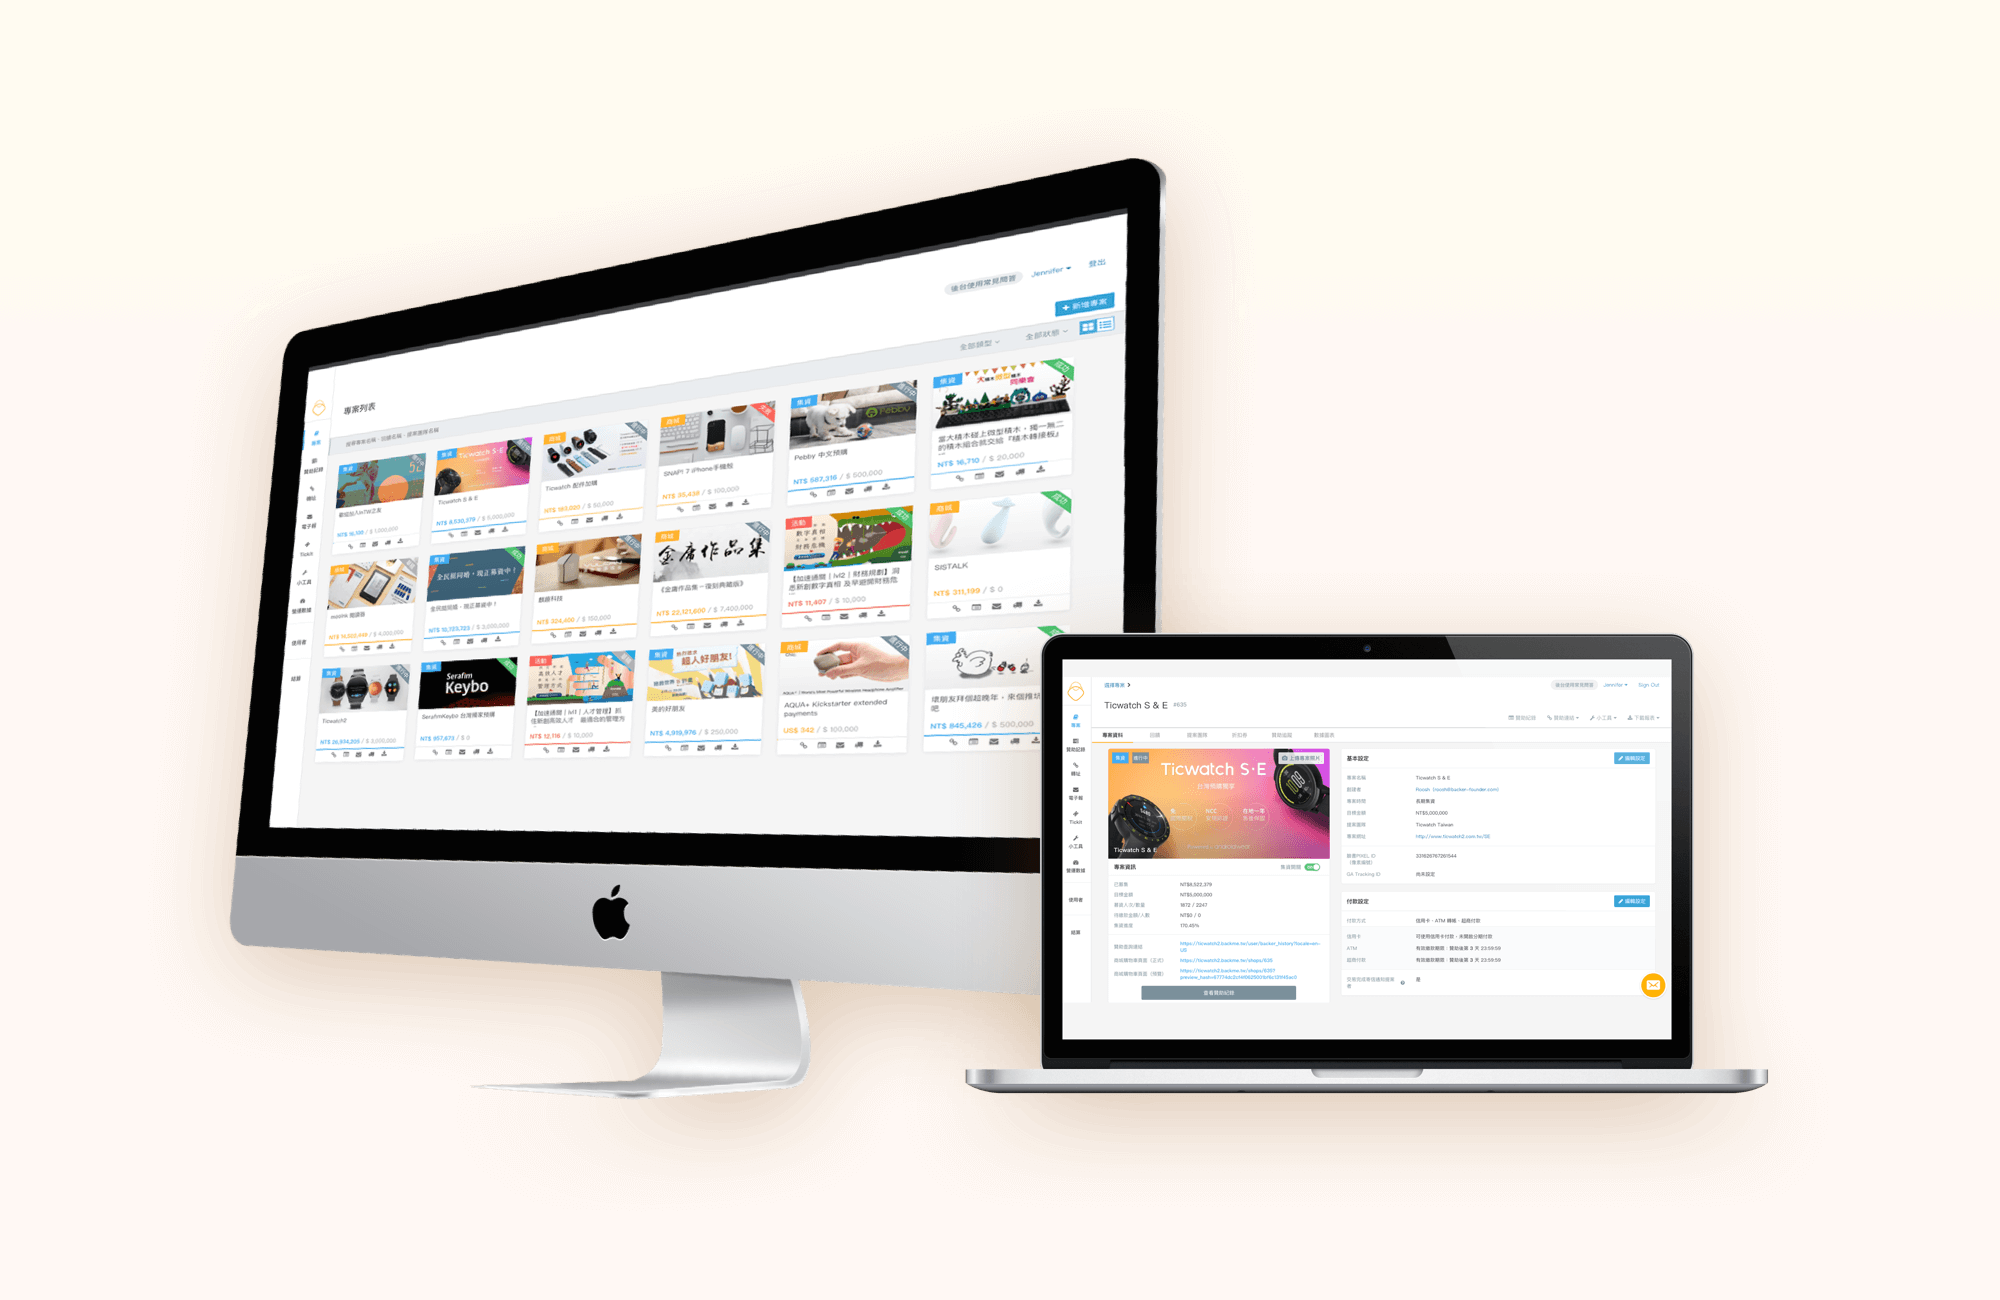
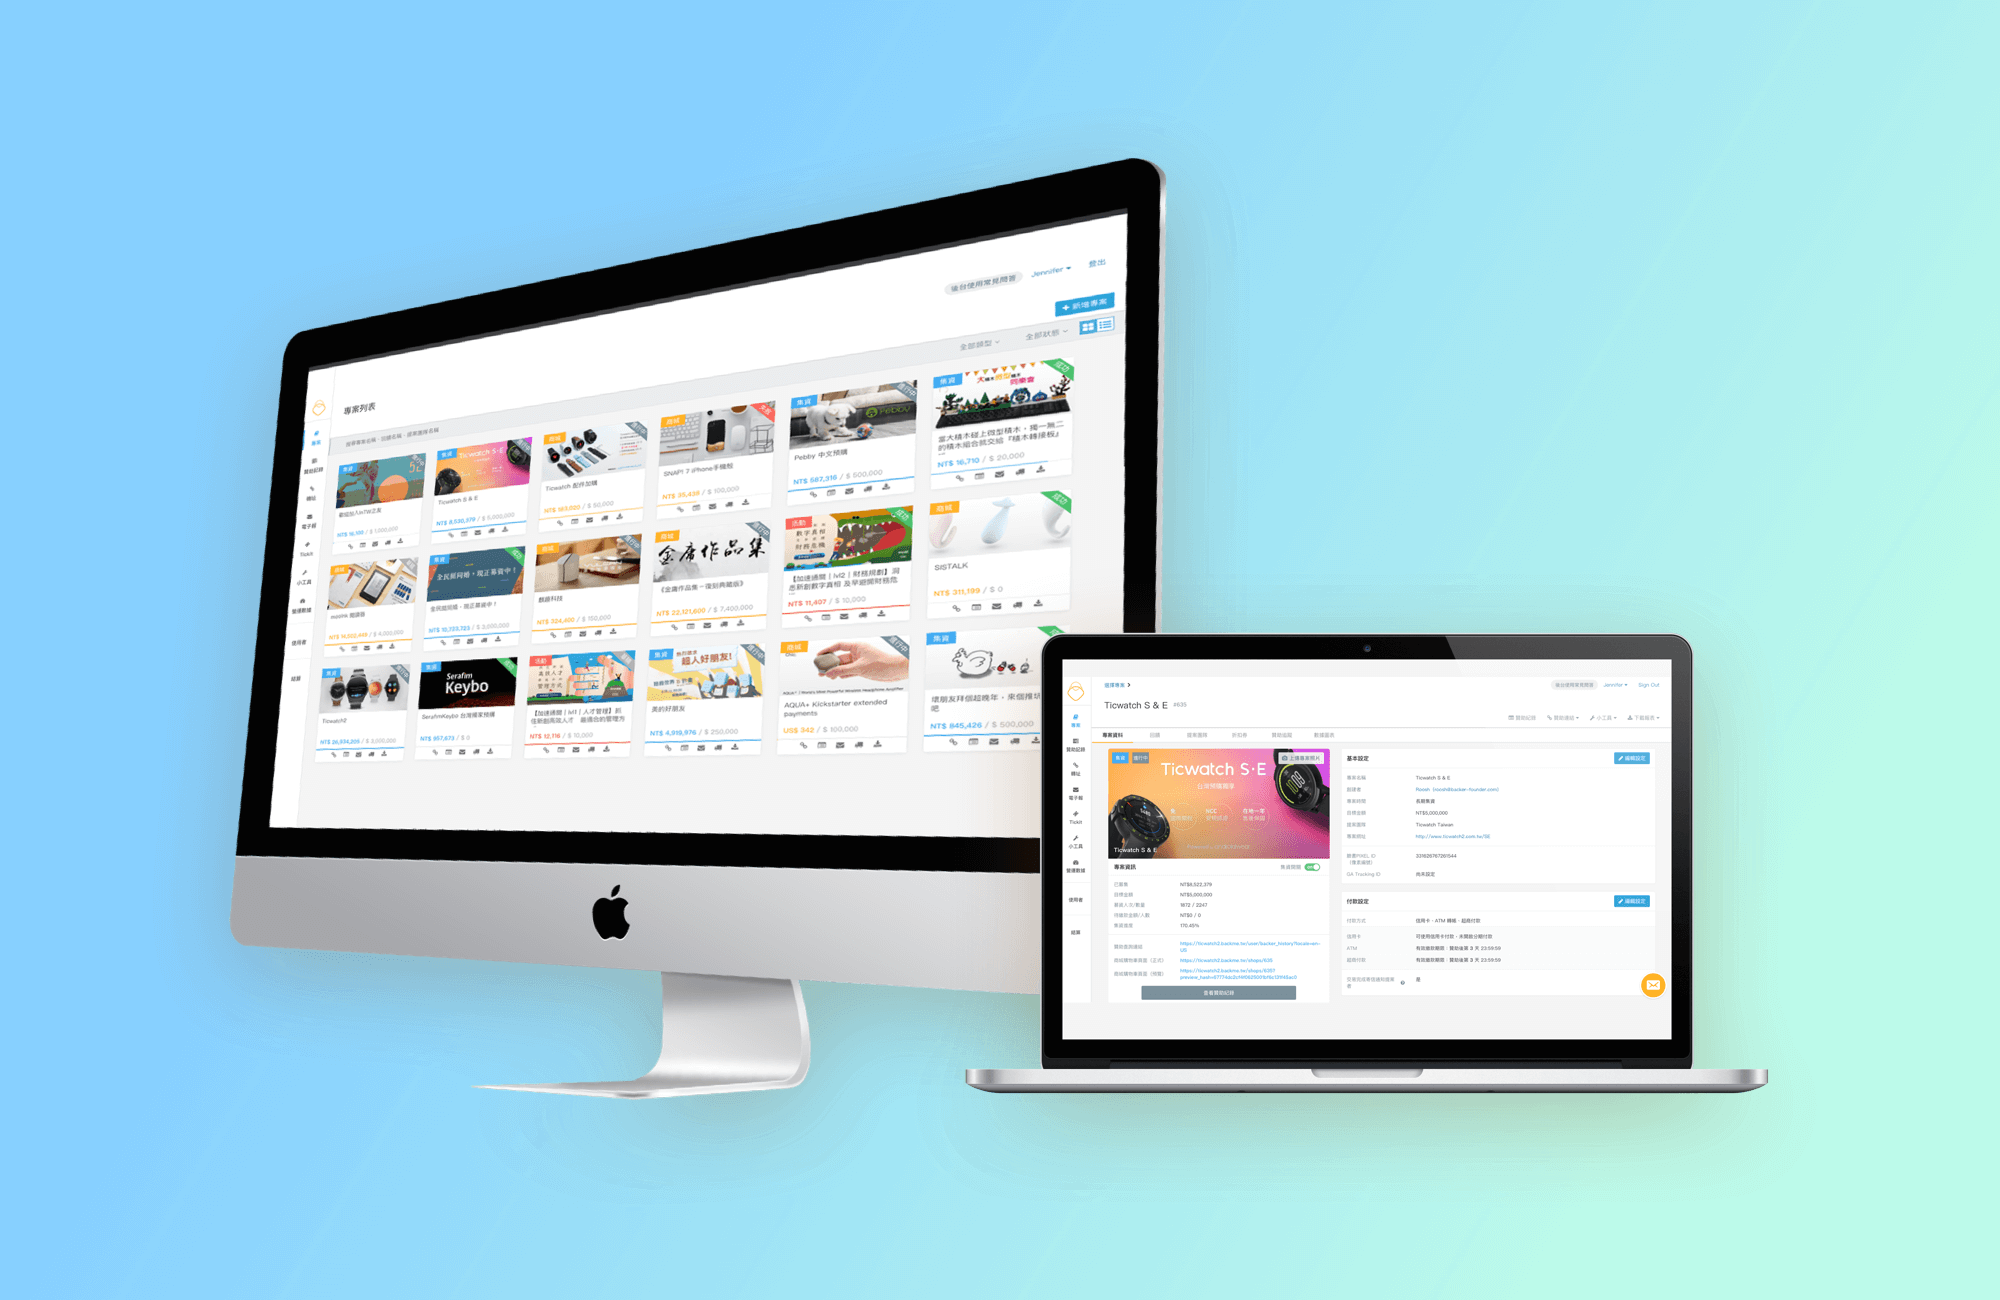
add backme introduction pic, tiny mockup

diff --git a/public/index.html b/public/index.html
@@ -359,6 +359,12 @@
           <br> Project Management
           <br>
         </p>
+        <h4>LINK</h4>
+        <p>Prototype Demo:
+          <a href="http://bookme2.herokuapp.com/" target="_blank">
+            http://bookme2.herokuapp.com/
+          </a>
+        </p>
         <h3>CONSTRAINTS</h3>
         <p>
           Within only 48 hours, our goal was to focus on solving the problem by delivering a functional working product by the end
@@ -507,9 +513,10 @@
         <h4>LINK</h4>
         <p>Product Landing Page:
           <a href="https://backme.tw" target="_blank">
-            backme.tw
+            https://backme.tw/
           </a>
         </p>
+        <img data-src="/assets/img/main/mockup/Backme-2.png" src="" alt="">
         <h3>PROJECT IMPACT</h3>
         <img data-src="/assets/img/main/works/Backme-0.png" src="" alt="">
 
@@ -520,7 +527,8 @@
         loop running into the second phase through the three iterative design sprints.
         <br>
         <br>
-        <img data-src="/assets/img/main/works/Backme-0-1.png" src="" alt=""> I was involved in all phases of the project, with a focus on analyzing use cases and user flows, creating wireframes
+        <img data-src="/assets/img/main/works/Backme-0-1.png" src="" alt=""> 
+        I was involved in all phases of the project, with a focus on analyzing use cases and user flows, creating wireframes
         and part of the final production work of visual design.
 
         <h3>PHASE 1 - DEFINE PROBLEMS</h3>
@@ -533,8 +541,7 @@
         <h4>User Stories</h4>
         <p>
           <span>
-            For clients, they want a clear visual hierarchy to help them find necessary informations to deal with customer service on
-            the admin panel
+            For clients, they want a clear visual hierarchy to help them find necessary informations to deal with customer service on the admin panel
           </span>
           <span>
             For end users, the checkout process should be easy to understand, simple and estimable.
@@ -764,7 +771,7 @@
         <h4>LINK</h4>
         <p>
           <a href="http://ticwatch2.com.tw/" target="_blank">
-            http://ticwatch2.com.tw/
+          Official Pre-order Website
           </a>
         </p>
         <h3>USER RESEARCH</h3>

diff --git a/public/assets/css/main.css b/public/assets/css/main.css
@@ -549,7 +549,7 @@ h2 {
     font-size: 23px;
     font-family: "Open Sans", "Lato", "Nunito Sans", sans-serif;
     font-weight: 400;
-    color: #80C3F3; }
+    color: #7ED5FE; }
   .works-introduction h4 {
     font-family: "Open Sans" -Medium, "Lato", "Nunito Sans", sans-serif;
     font-weight: 600;
@@ -577,7 +577,7 @@ h2 {
       height: 0;
       border-style: solid;
       border-width: 10px 15px 0 15px;
-      border-color: #80C3F3 transparent transparent transparent; }
+      border-color: #7ED5FE transparent transparent transparent; }
 
 .work {
   cursor: pointer;
@@ -599,7 +599,7 @@ h2 {
     z-index: 10;
     box-shadow: 0 15px 40px -5px rgba(0, 0, 0, 0.1); }
     .work:hover:after {
-      box-shadow: inset 0 0 0 2px #80C3F3; }
+      box-shadow: inset 0 0 0 2px #7ED5FE; }
   .work > * {
     width: 100%;
     height: 280px; }
@@ -714,7 +714,7 @@ footer {
 .pop-content-mw h3 {
   margin: 40px 0 20px;
   padding-bottom: 0;
-  color: #80C3F3;
+  color: #7ED5FE;
   font-weight: 600;
   font-family: "Open Sans" -Medium, "Lato", "Nunito Sans", sans-serif;
   font-size: 28px; }
@@ -750,7 +750,7 @@ footer {
   text-align: center;
   margin-bottom: 20px; }
   .pop-content-mw .weblink a {
-    color: #80C3F3;
+    color: #7ED5FE;
     font-size: 16px;
     font-weight: 600;
     font-family: "Open Sans" -Medium, "Lato", "Nunito Sans", sans-serif; }
@@ -765,7 +765,7 @@ footer {
     font-weight: 300;
     font-family: "Open Sans" -Light, "Lato", "Nunito Sans", sans-serif; }
   .pop-content-mw p a {
-    color: #80C3F3;
+    color: #7ED5FE;
     font-size: 16px;
     font-weight: 300;
     font-family: "Open Sans" -Light, "Lato", "Nunito Sans", sans-serif; }

diff --git a/public/assets/scss/custom_style/_variables.scss b/public/assets/scss/custom_style/_variables.scss
@@ -2,7 +2,7 @@
 $primary-color: #0d2565;
 $color: #000;
 $secondary-color: transparent;
-$main: #80C3F3;
+$main: #7ED5FE;
 $g: linear-gradient(to bottom, rgba(127, 212, 245, .2) 0, rgba(58, 131, 168, .2) 100%),
     linear-gradient(-225deg, #80C3F3 0, #0040CE 100%);
 $gr: linear-gradient(to top, rgba(61, 182, 83, .2) 0, rgba(58, 131, 168, .24) 100%),

diff --git a/public/assets/scss/main.scss b/public/assets/scss/main.scss
@@ -534,6 +534,7 @@ h1.go {
 		box-shadow: -2px 0 0 0 #75C9F4;
 		margin-bottom: 15px;
 	}
+	
 
 	.dot {
 		font-size: 30px;
